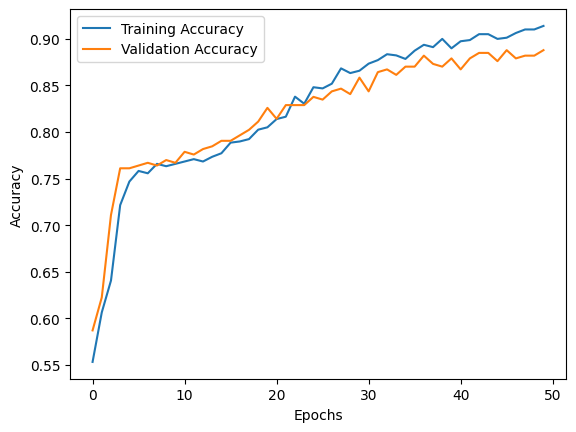
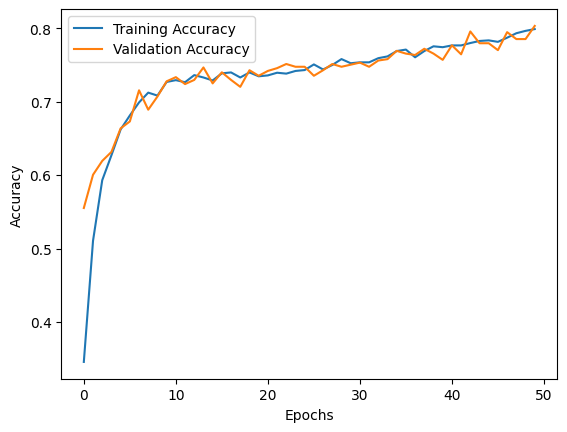
Update Neural Network page

diff --git a/views/develop_page.py b/views/develop_page.py
@@ -411,7 +411,10 @@ with tabNN:
         import pickle
         from tensorflow.keras import Input
         from tensorflow.keras.models import Sequential
-        from tensorflow.keras.layers import Dense
+        from tensorflow.keras.layers import Dense, Dropout
+        from tensorflow.keras.callbacks import EarlyStopping
+        from tensorflow.keras.regularizers import l2
+        from tensorflow.keras.optimizers import Adam
         from tensorflow.keras.utils import to_categorical
         """
     )
@@ -423,38 +426,47 @@ with tabNN:
         X = df.drop(columns=['Traffic Situation'])
         y = df['Traffic Situation']
 
-        # scale the features using MinMaxScaler
+        # scale the features
         scaler = MinMaxScaler()
         X_scaled = pd.DataFrame(scaler.fit_transform(X), columns=X.columns)
-        y_one_hot = to_categorical(y, num_classes=len(trafficStatus))
+
+        # save the scaler for using in demo page
+        with open("./NN/scaler.pkl", "wb") as f:
+            pickle.dump(scaler, f)
         """
     )
 
     st.write("The next step will be splitting the dataset into training and testing set, then we can start to develop the model and save the model")
     st.code(
         """
-        # convert the target to one-hot encoding
+        # split for train and test
         X_train, X_test, y_train, y_test = train_test_split(X_scaled, y, test_size=0.3, random_state=42)
         y_train = to_categorical(y_train, num_classes=4)
         y_test = to_categorical(y_test, num_classes=4)
 
-        # develop the model
+        # Dropout Layers and L2 Regularization
         model = Sequential([
             Input(shape=(X_train.shape[1],)),
-            Dense(32, activation='relu'),
-            Dense(16, activation='relu'),
+            Dense(64, activation='relu', kernel_regularizer=l2(0.01)),  # L2 regularization
+            Dropout(0.3),  # Dropout to reduce overfitting
+            Dense(32, activation='relu', kernel_regularizer=l2(0.01)),
+            Dropout(0.3),
+            Dense(16, activation='relu', kernel_regularizer=l2(0.01)),
             Dense(4, activation='softmax')
         ])
 
-        model.compile(optimizer='adam', loss='categorical_crossentropy', metrics=['accuracy'])
-        model.summary()
+        # Optimizer and Early Stopping
+        early_stopping = EarlyStopping(monitor='val_loss', patience=10, restore_best_weights=True)
+
+        # Compile the model with Adam optimizer
+        model.compile(optimizer=Adam(learning_rate=0.001), loss='categorical_crossentropy', metrics=['accuracy'])
 
         history = model.fit(X_train, y_train, epochs=50, batch_size=32, validation_data=(X_test, y_test))
+        
+        model.save("./NN/NN_model.keras")
+        
         test_loss, test_acc = model.evaluate(X_test, y_test)
-
-        # save the model
-        pickle.dump(model, open('NN/NN_model.pkl', 'wb'))
         """
     )
-    st.write("The accuracy of the model is shown below (89%-90%)")
+    st.write("The accuracy of the model is shown below: ")
     st.image("./model/NN/accuracy.png", use_container_width=True)

diff --git a/views/NNdemo_page.py b/views/NNdemo_page.py
@@ -104,6 +104,7 @@ else:
         st.write("### Your Input Data")
         st.dataframe(input_data, hide_index=True)
         
+        st.write("### Prediction Result")
         prediction = model.predict(processed_input)
         st.write(prediction)
         
